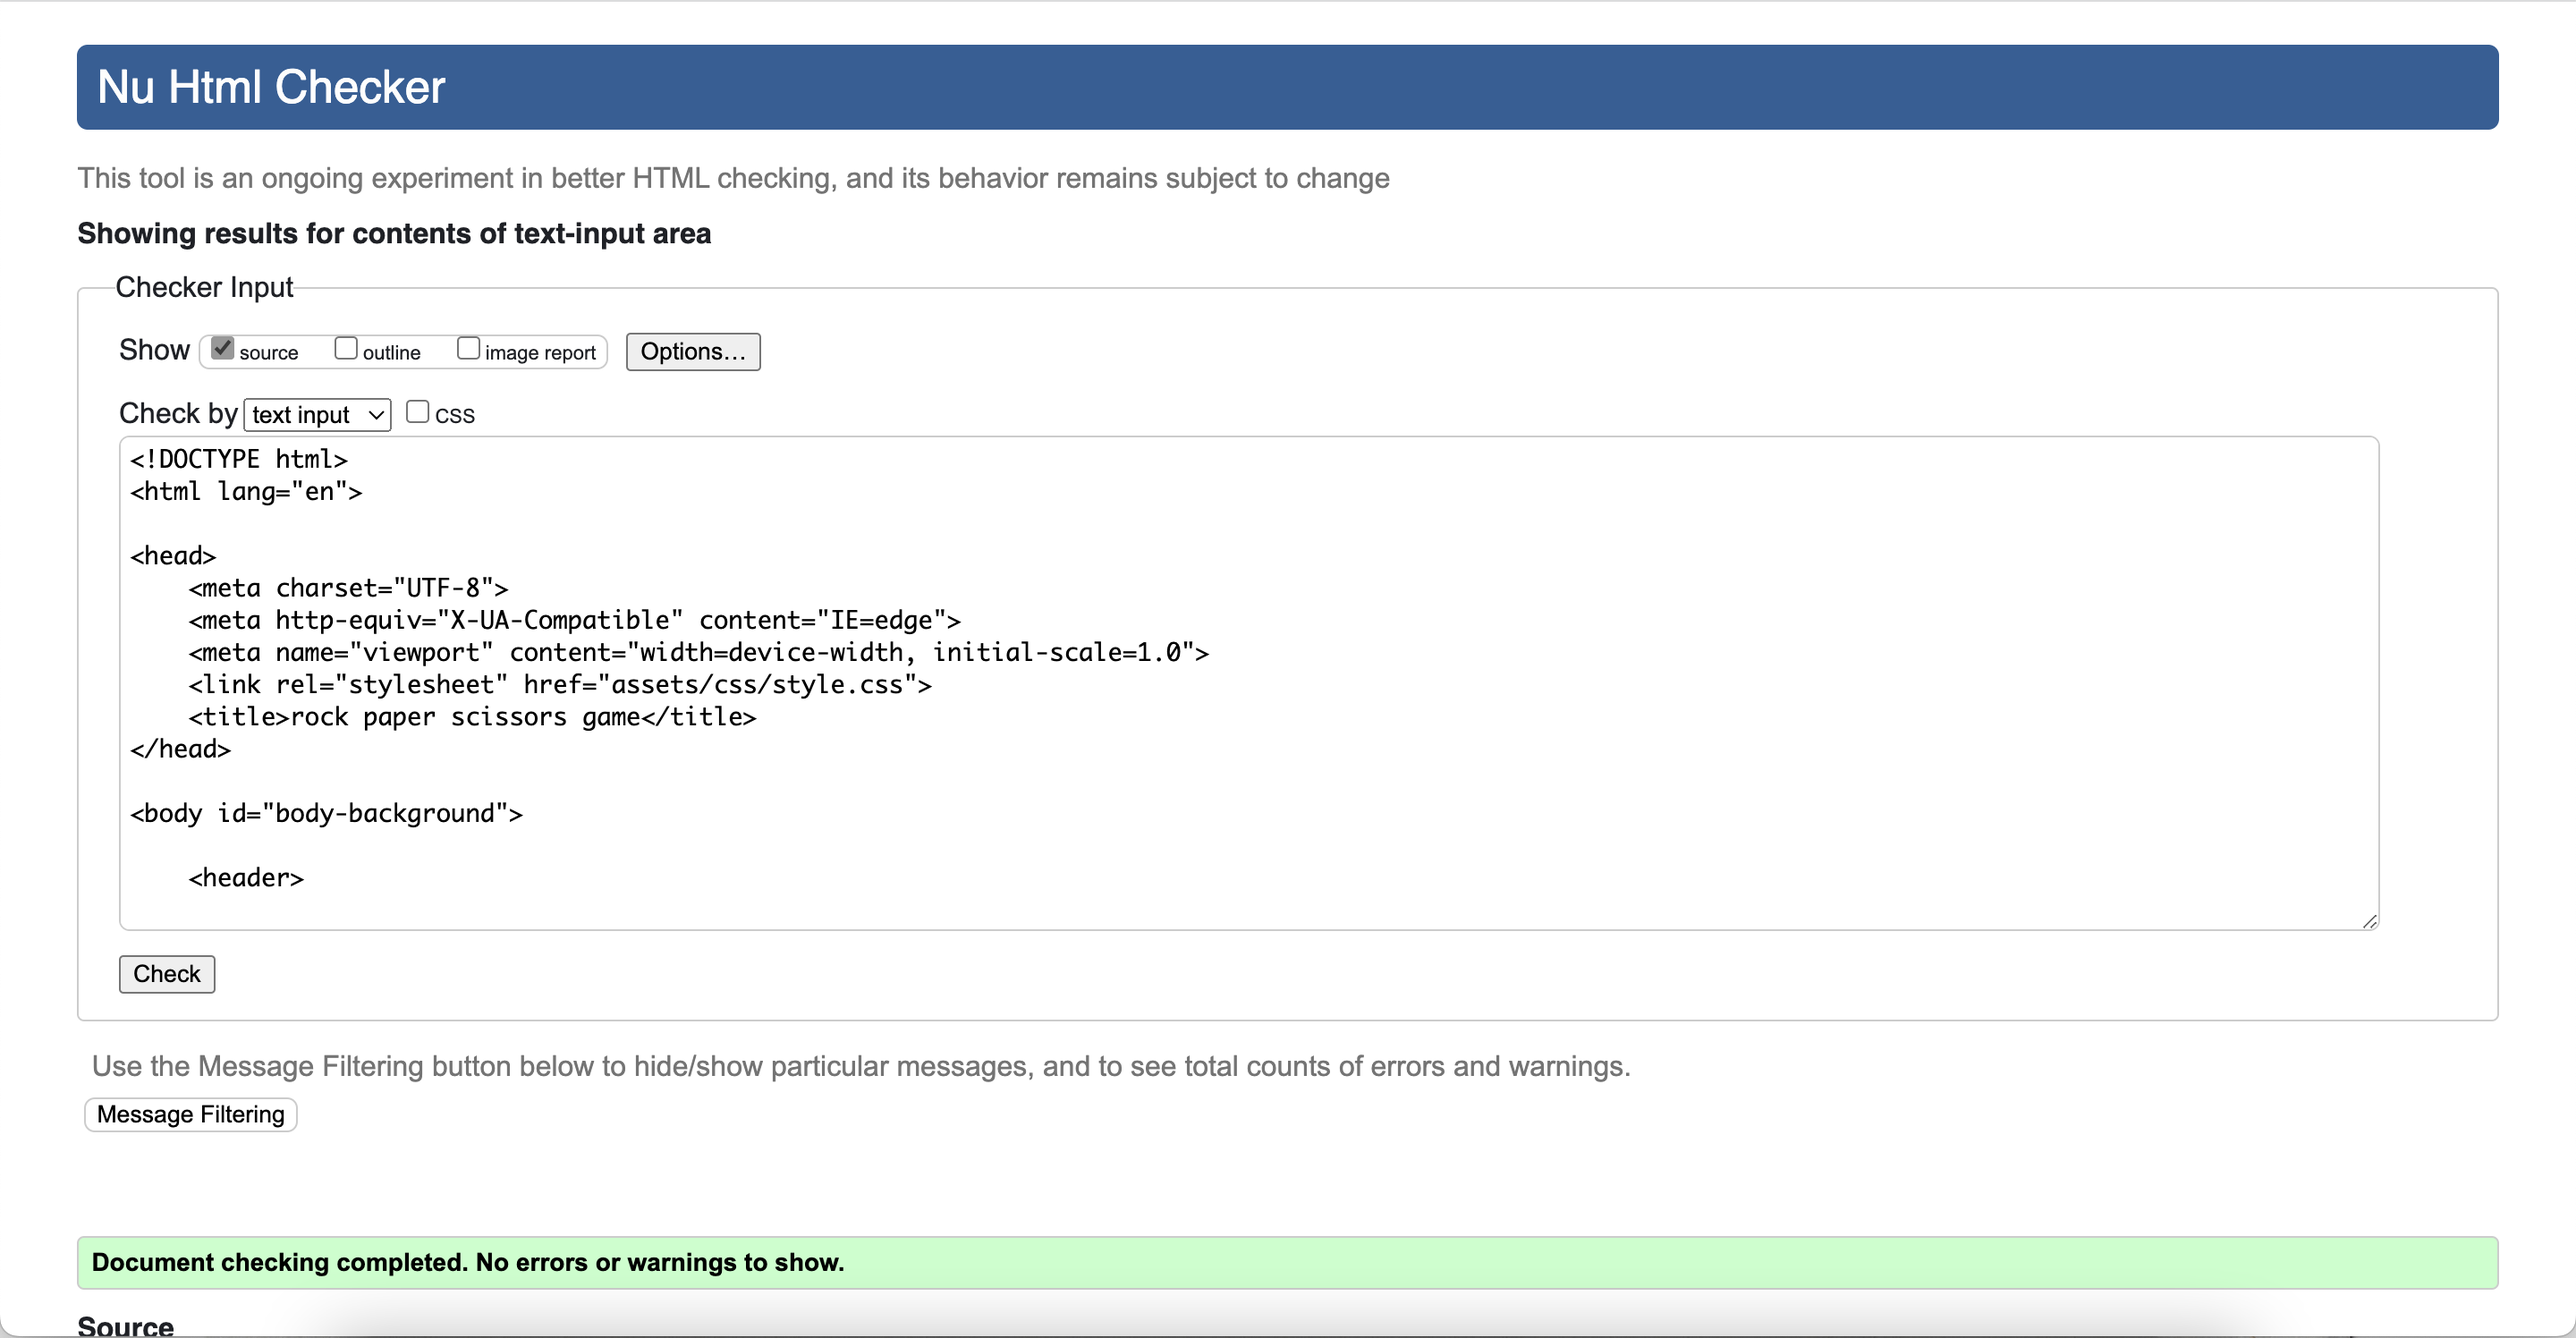
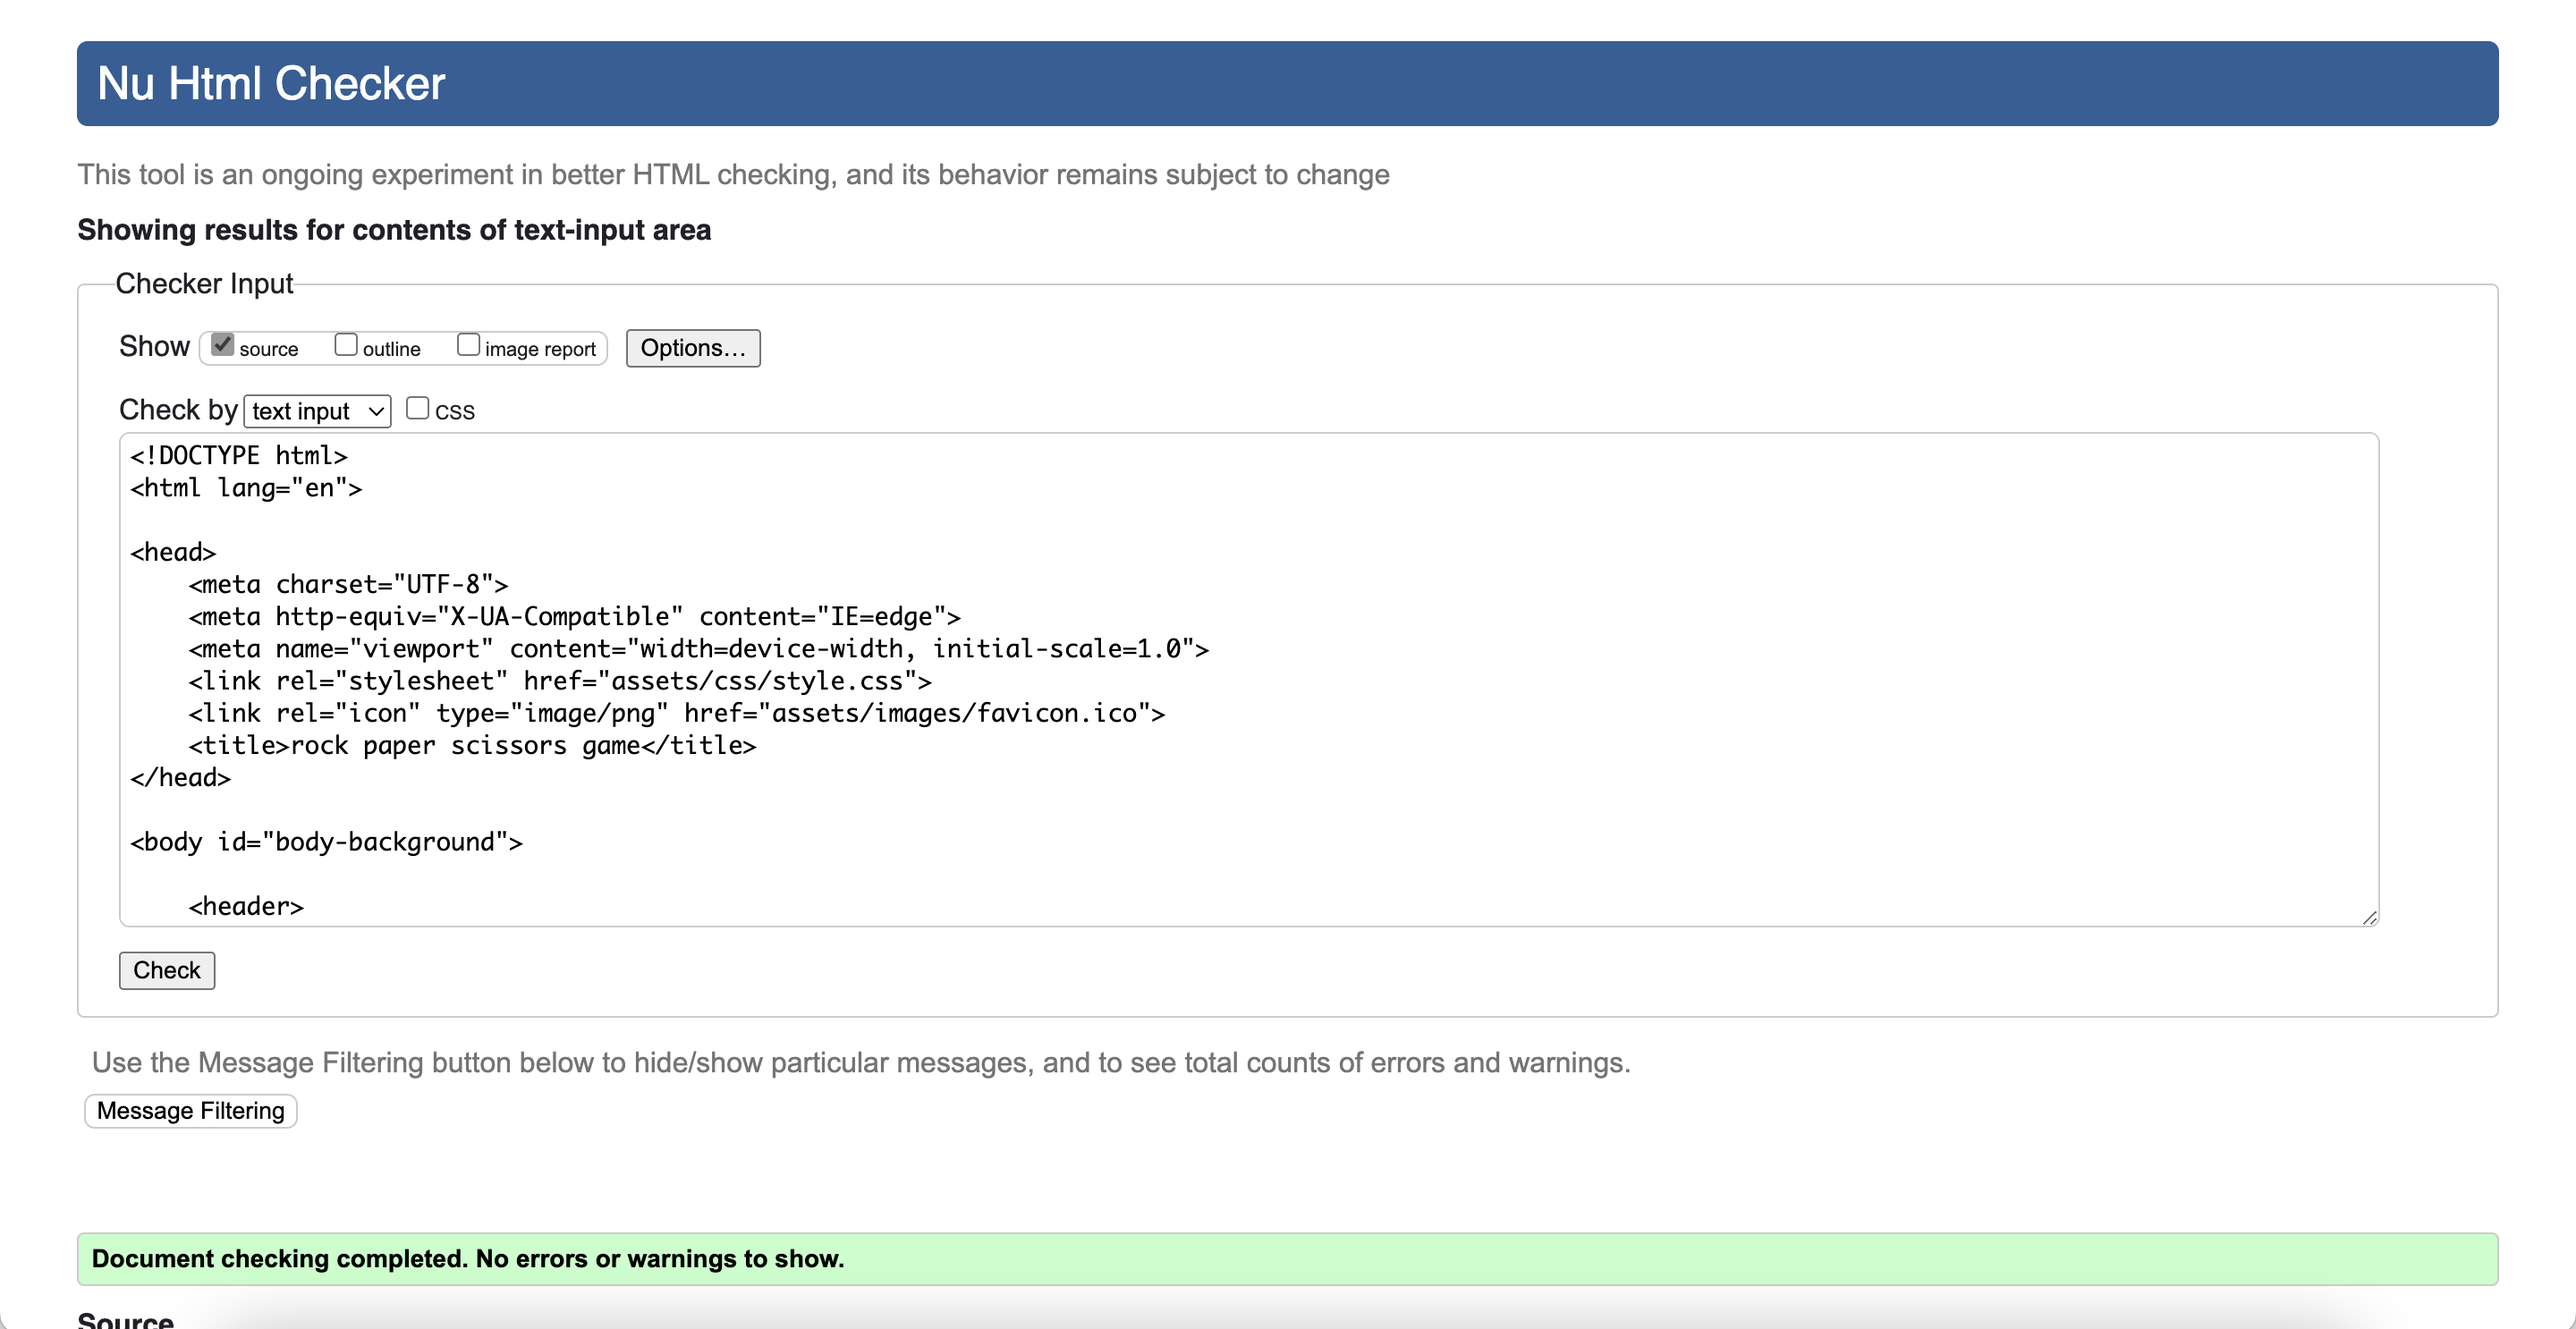
Add contetnt to readme

diff --git a/assets/js/script.js b/assets/js/script.js
@@ -17,7 +17,7 @@ function getComputerChoice() {
     return choices[randomNumber];
 }
 
-
+// Function message for winner, loser or draw and increment score to winner//
 function win(userChoice, computerChoice) {
     userScore++;
     userScoreSpan.innerHTML = userScore;
@@ -36,7 +36,7 @@ function draw(userChoice, computerChoice) {
     resultDiv.innerHTML = `${userChoice} is the same as ${computerChoice}. You draw!`;
 }
 
-//gets combinations of the game and see which ones wines, looser or draws//
+//compares all combinations of the game and what result is//
 function game(userChoice) {
     const computerChoice = getComputerChoice();
     switch (userChoice + computerChoice) {

diff --git a/README.md b/README.md
@@ -69,6 +69,10 @@ The score section that keep the score visible to the user and the lets the user 
 ![Score-area-two](assets/images-readme/score-area-two.png)
 ![Score-area-three](assets/images-readme/score-area-three.png)
 
+### Footer 
+The footer gives the audience to go to the companies socials.
+![footer](assets/images-readme/footer.png)
+
 ### Future Implementations 
 - To set a break for best out of 5.
 - To be able to start over without having to refresh the browser.
@@ -140,6 +144,8 @@ To clone the Rock, Paper, Scissors repository
 
 - When first loading the emoji's into my html and css, they had a white background box around them. To get rid of this, I just set the background to none when writing my css code.
 
+- The favicon wouldn't load in the deployed website. I solve this by editing the file path and making sure everything was spelt correctly. This is what solved it.
+
 # Credits 
 Inspiration and code came from two different YouTube tutorials and other students' projects.
 - [How to Build a Rock Paper Scissors Game with Html, Css, and Javascript (Part 2)](https://www.youtube.com/watch?v=Qqy8Ov3NWvQ&t=2946s&ab_channel=whatsdev)
@@ -147,6 +153,16 @@ Inspiration and code came from two different YouTube tutorials and other student
 -[3 ways to code Rock Paper Scissors in JavaScript (Beginner to Intermediate to Advanced!)](https://www.youtube.com/watch?v=RwFeg0cEZvQ&t=519s&ab_channel=CodewithAniaKub%C3%B3w)
 - [https://github.com/Tanjava/RPSLS](https://github.com/Tanjava/RPSLS)
 - [https://github.com/JordanKingVeoxyl/rock-paper-scissors-lizard-spock-final](https://github.com/JordanKingVeoxyl/rock-paper-scissors-lizard-spock-final)
+
+### Content 
+Written by Saskia Packer
+
+### Media 
+Emoji's are from [Emojiedia](https://emojipedia.org/)
+Favicon came from [Favicon Generator](https://favicon.io/favicon-generator/)
+
+### Acknowledgements 
+I'd like to give a special thanks to my tutor Martina Terlevic, who has been really supportive in the process of making this website. 
 
 
 
